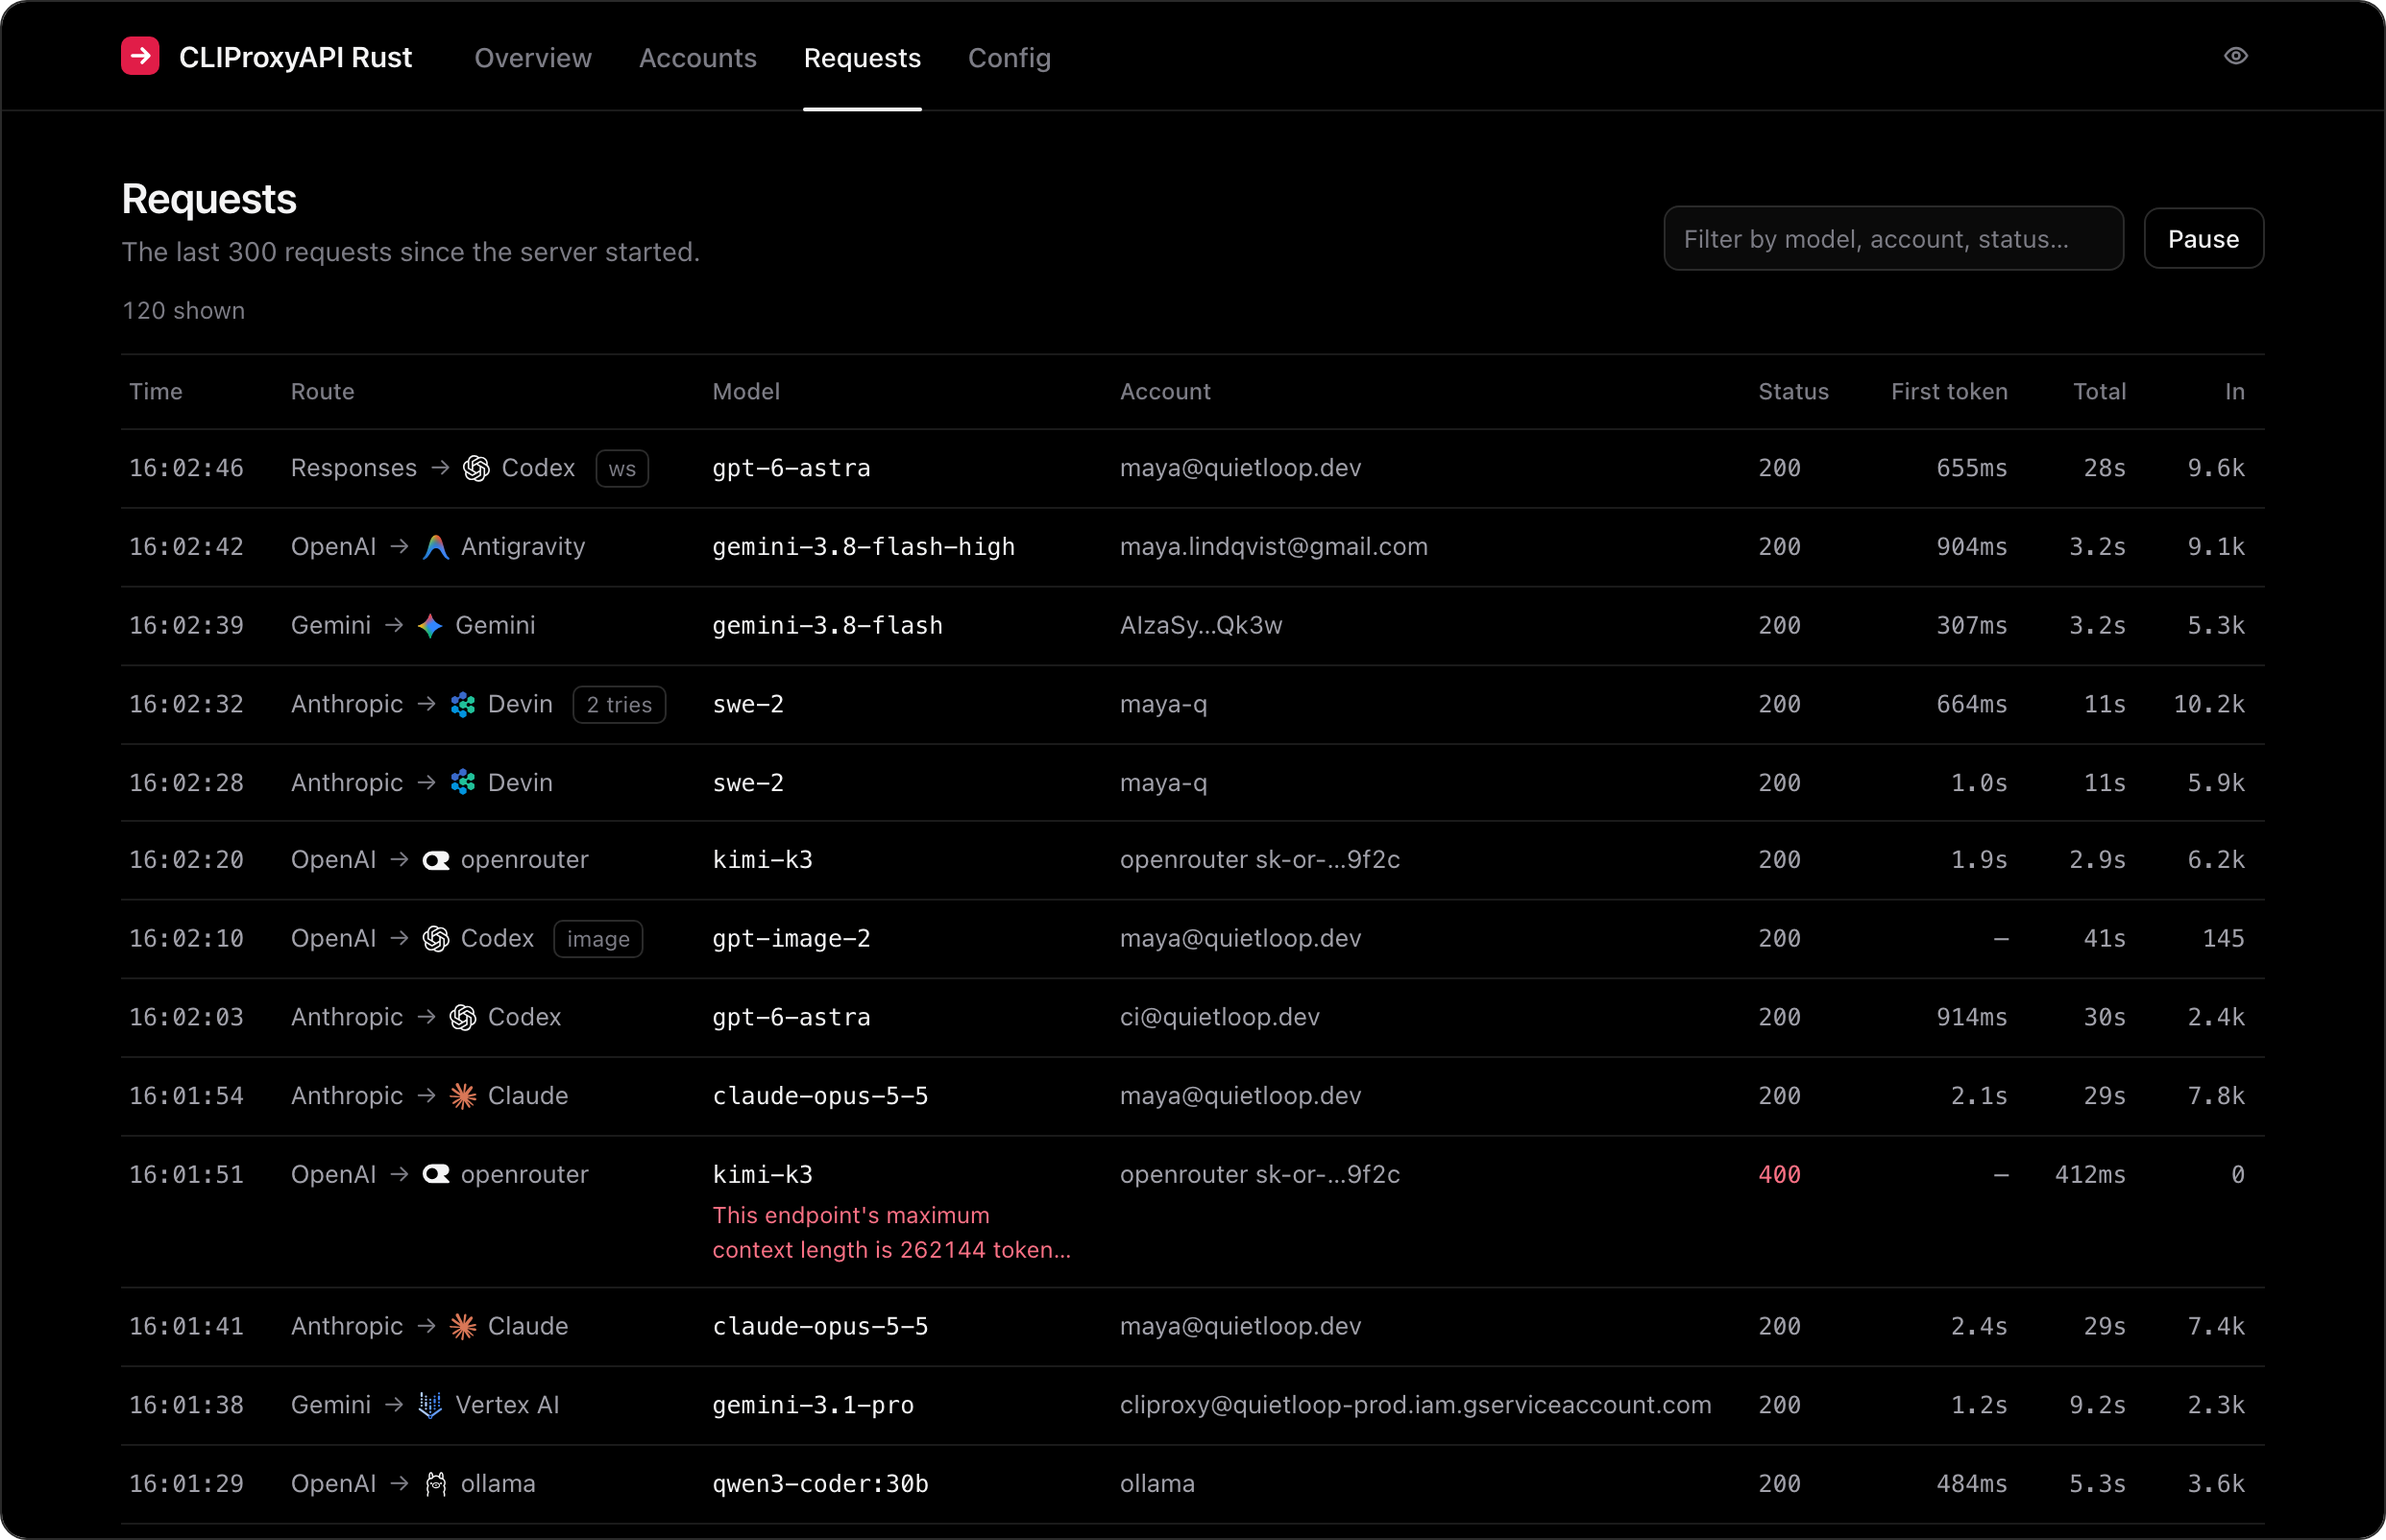
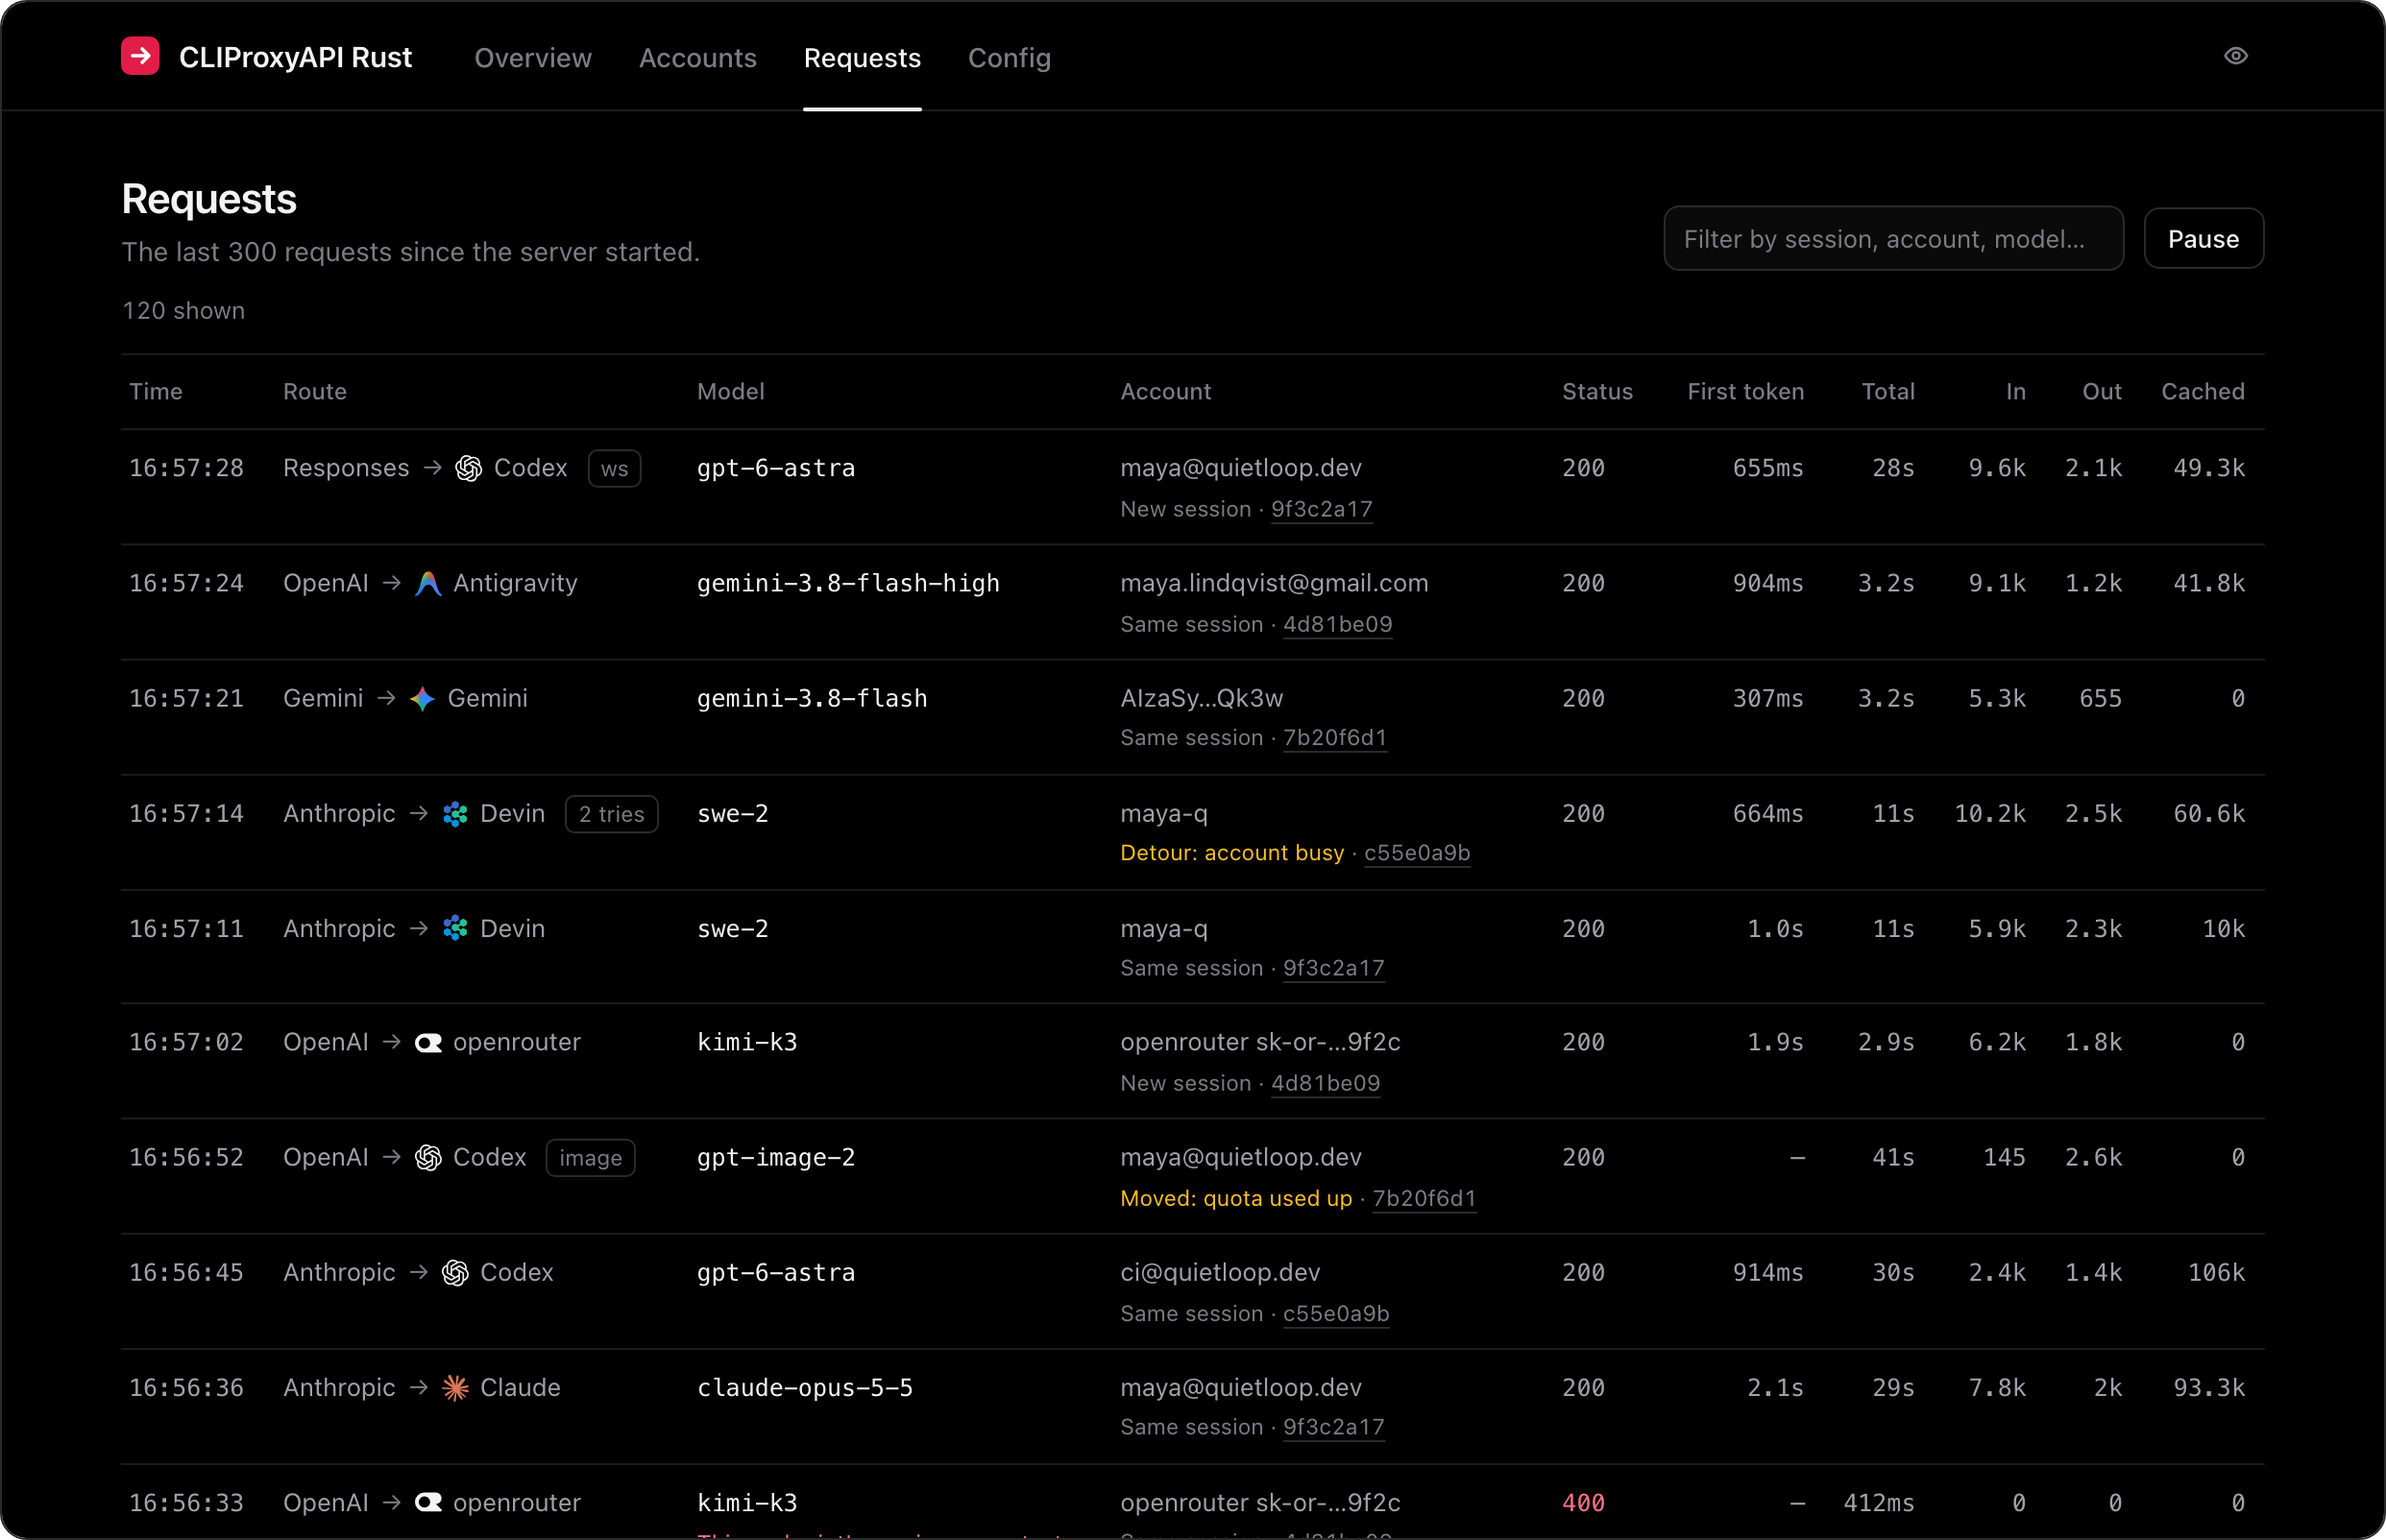
Document the request table's session line
DESIGN.md covers the account cell's routing reason and session
fingerprint; README screenshots are regenerated.

diff --git a/DESIGN.md b/DESIGN.md
@@ -142,7 +142,7 @@ Flat. Depth comes only from `raise` surfaces and 1px `line` hairlines. No shadow
 ## Components
 
 - Buttons: outline (line-strong border) by default; one white-filled primary per view at most; ghost buttons for row actions.
-- Tables: 12px fg-3 headers, 40px rows, 1px line separators, row hover `#070707`.
+- Tables: 12px fg-3 headers, 10px cell padding, 1px line separators, row hover `#070707`. The request table's account cell has a second `fg-3` line: why the account was chosen ("Same session", amber for "Moved: quota used up" or "Detour: account busy") and the session's 8-character fingerprint, which filters the table to that session.
 - Status: dot + word ("Ready", "Cooling 4:12", "Disabled", "Error").
 - Provider logos: an inline SVG sprite (`ui/logos.svg`, from LobeHub Icons, MIT) used through `<use>`; 18px beside account names, 14px in routes, buttons and the segmented control, 20px in the sign-in picker. OpenAI-compatible groups get their vendor's logo when the group name gives it away (OpenRouter, Ollama, LM Studio, DeepSeek, Groq, Mistral, Qwen, Kimi), otherwise the generic mark. xAI API keys show the xAI mark; Grok sign-ins show Grok.
 - Privacy toggle: a 30px ghost icon button (eye / eye-off) at the right end of the bar, pressed state on `#18181b`, remembered per browser. When on, emails read `••••••@••••••`, key ends `••••…••••`, the client key `••••••••`, sign-ins without an email are hidden whole, home folders read `~`, and the YAML file section waits behind "Show file"; secret fields in the settings forms stay masked. Copy buttons still copy the real value.
